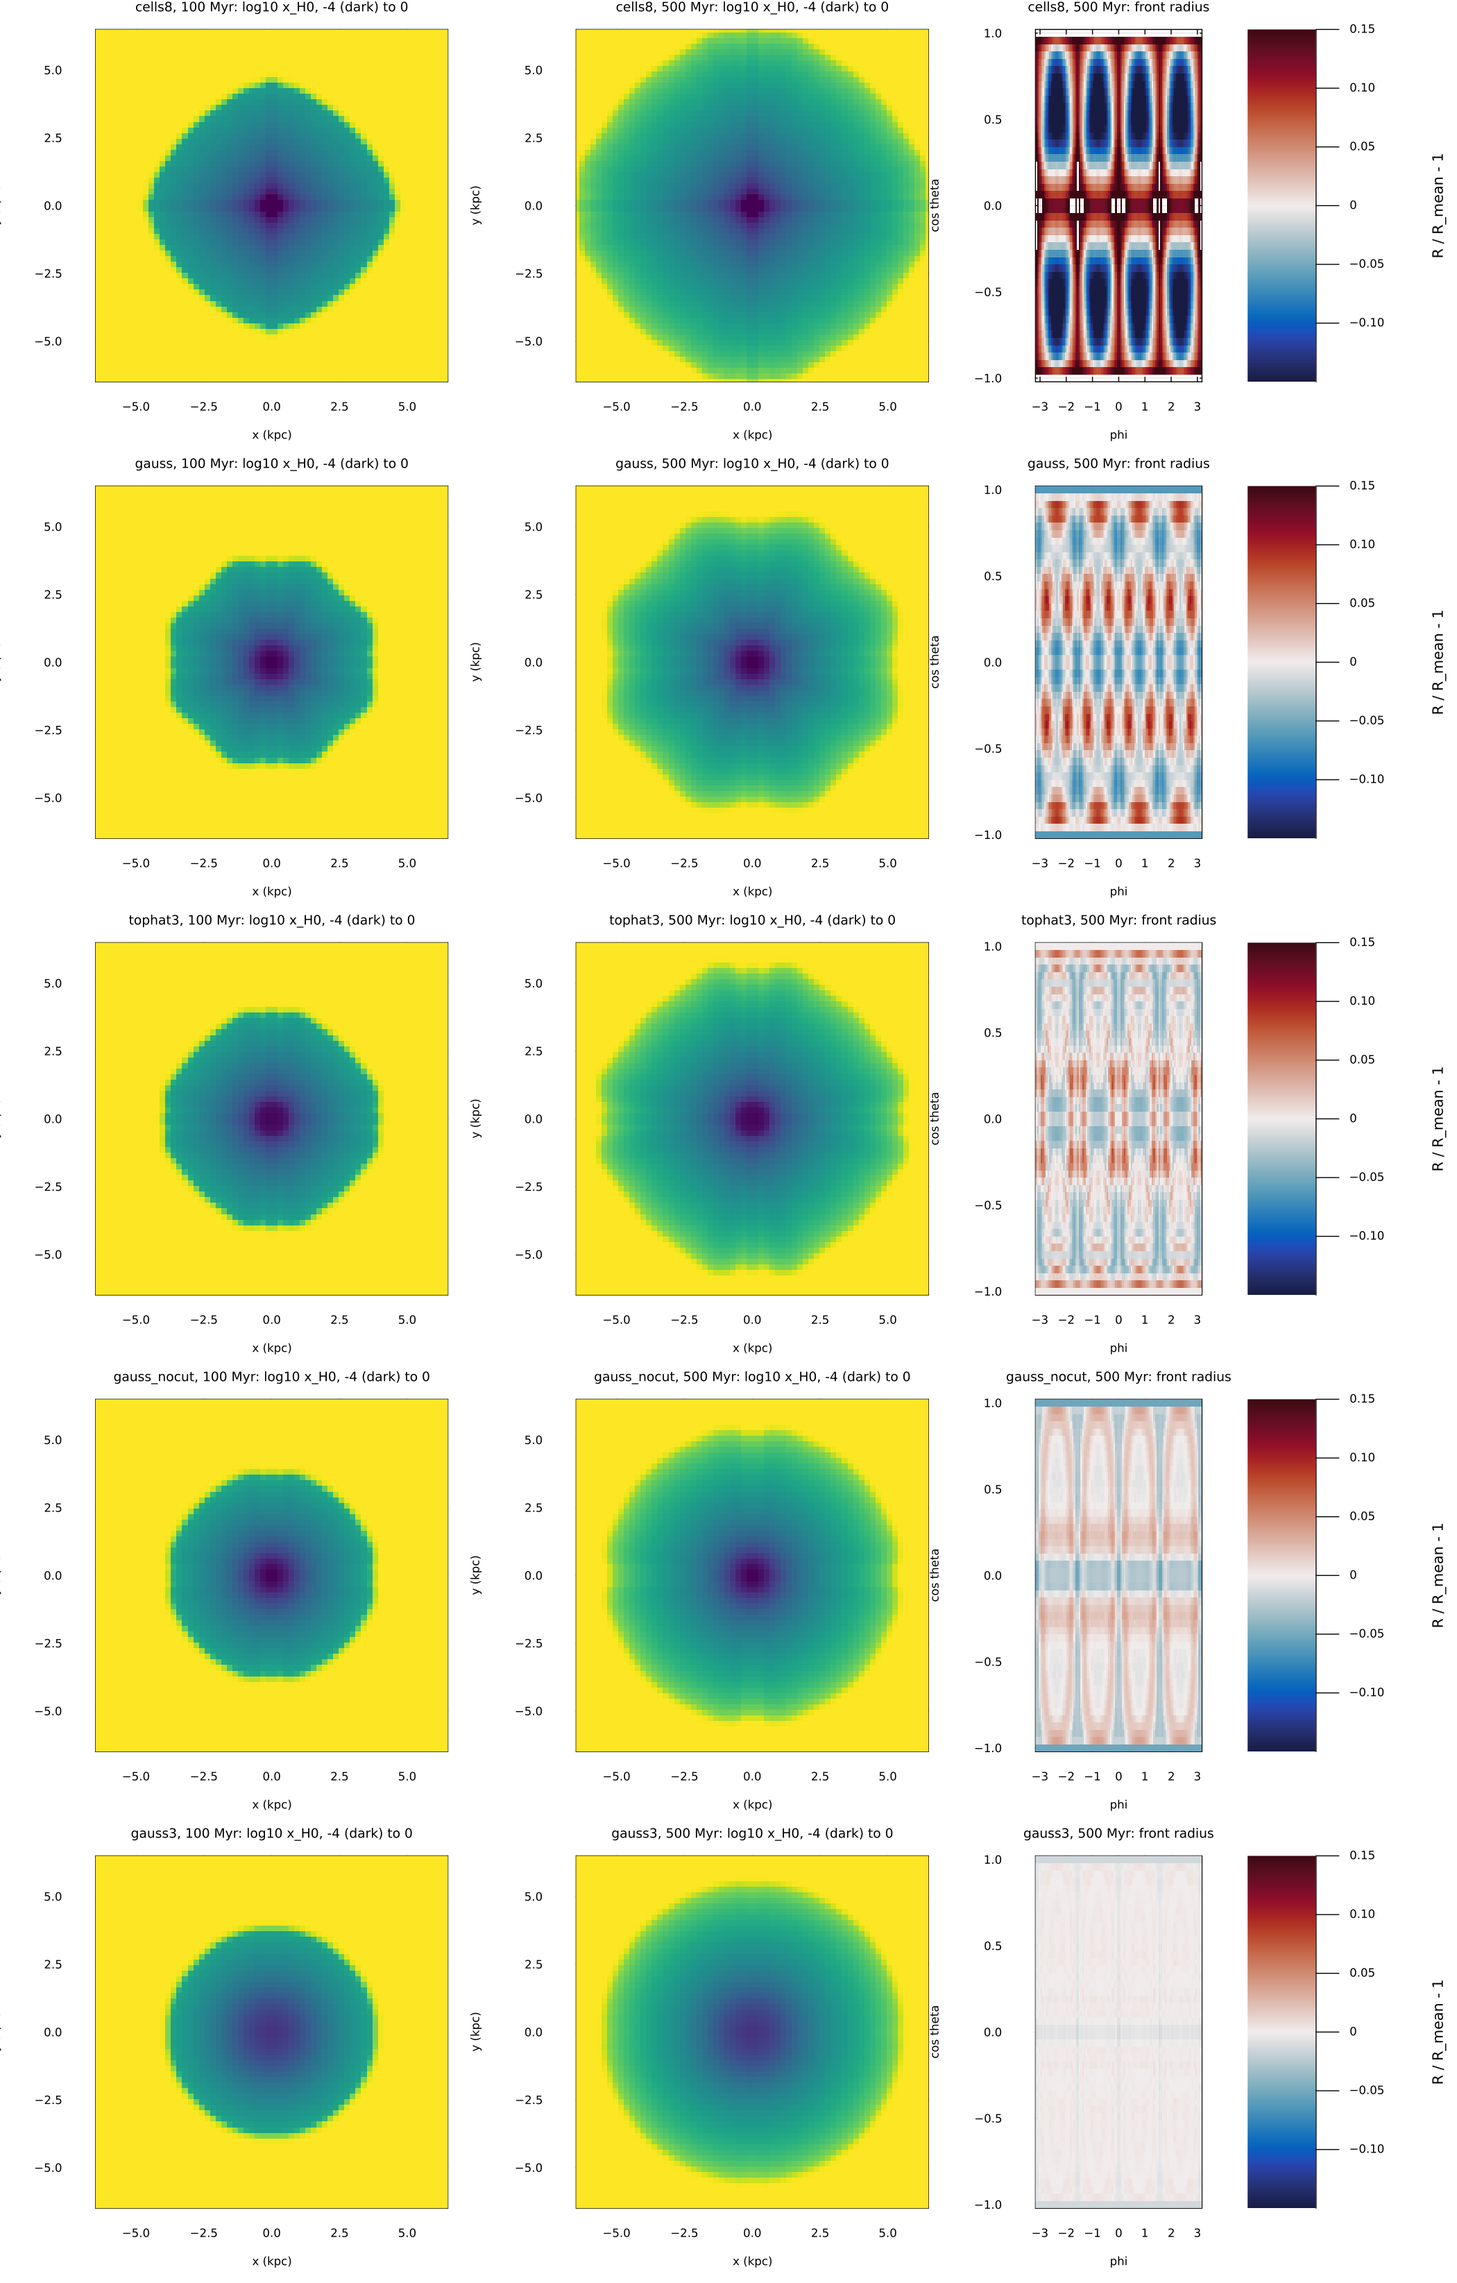
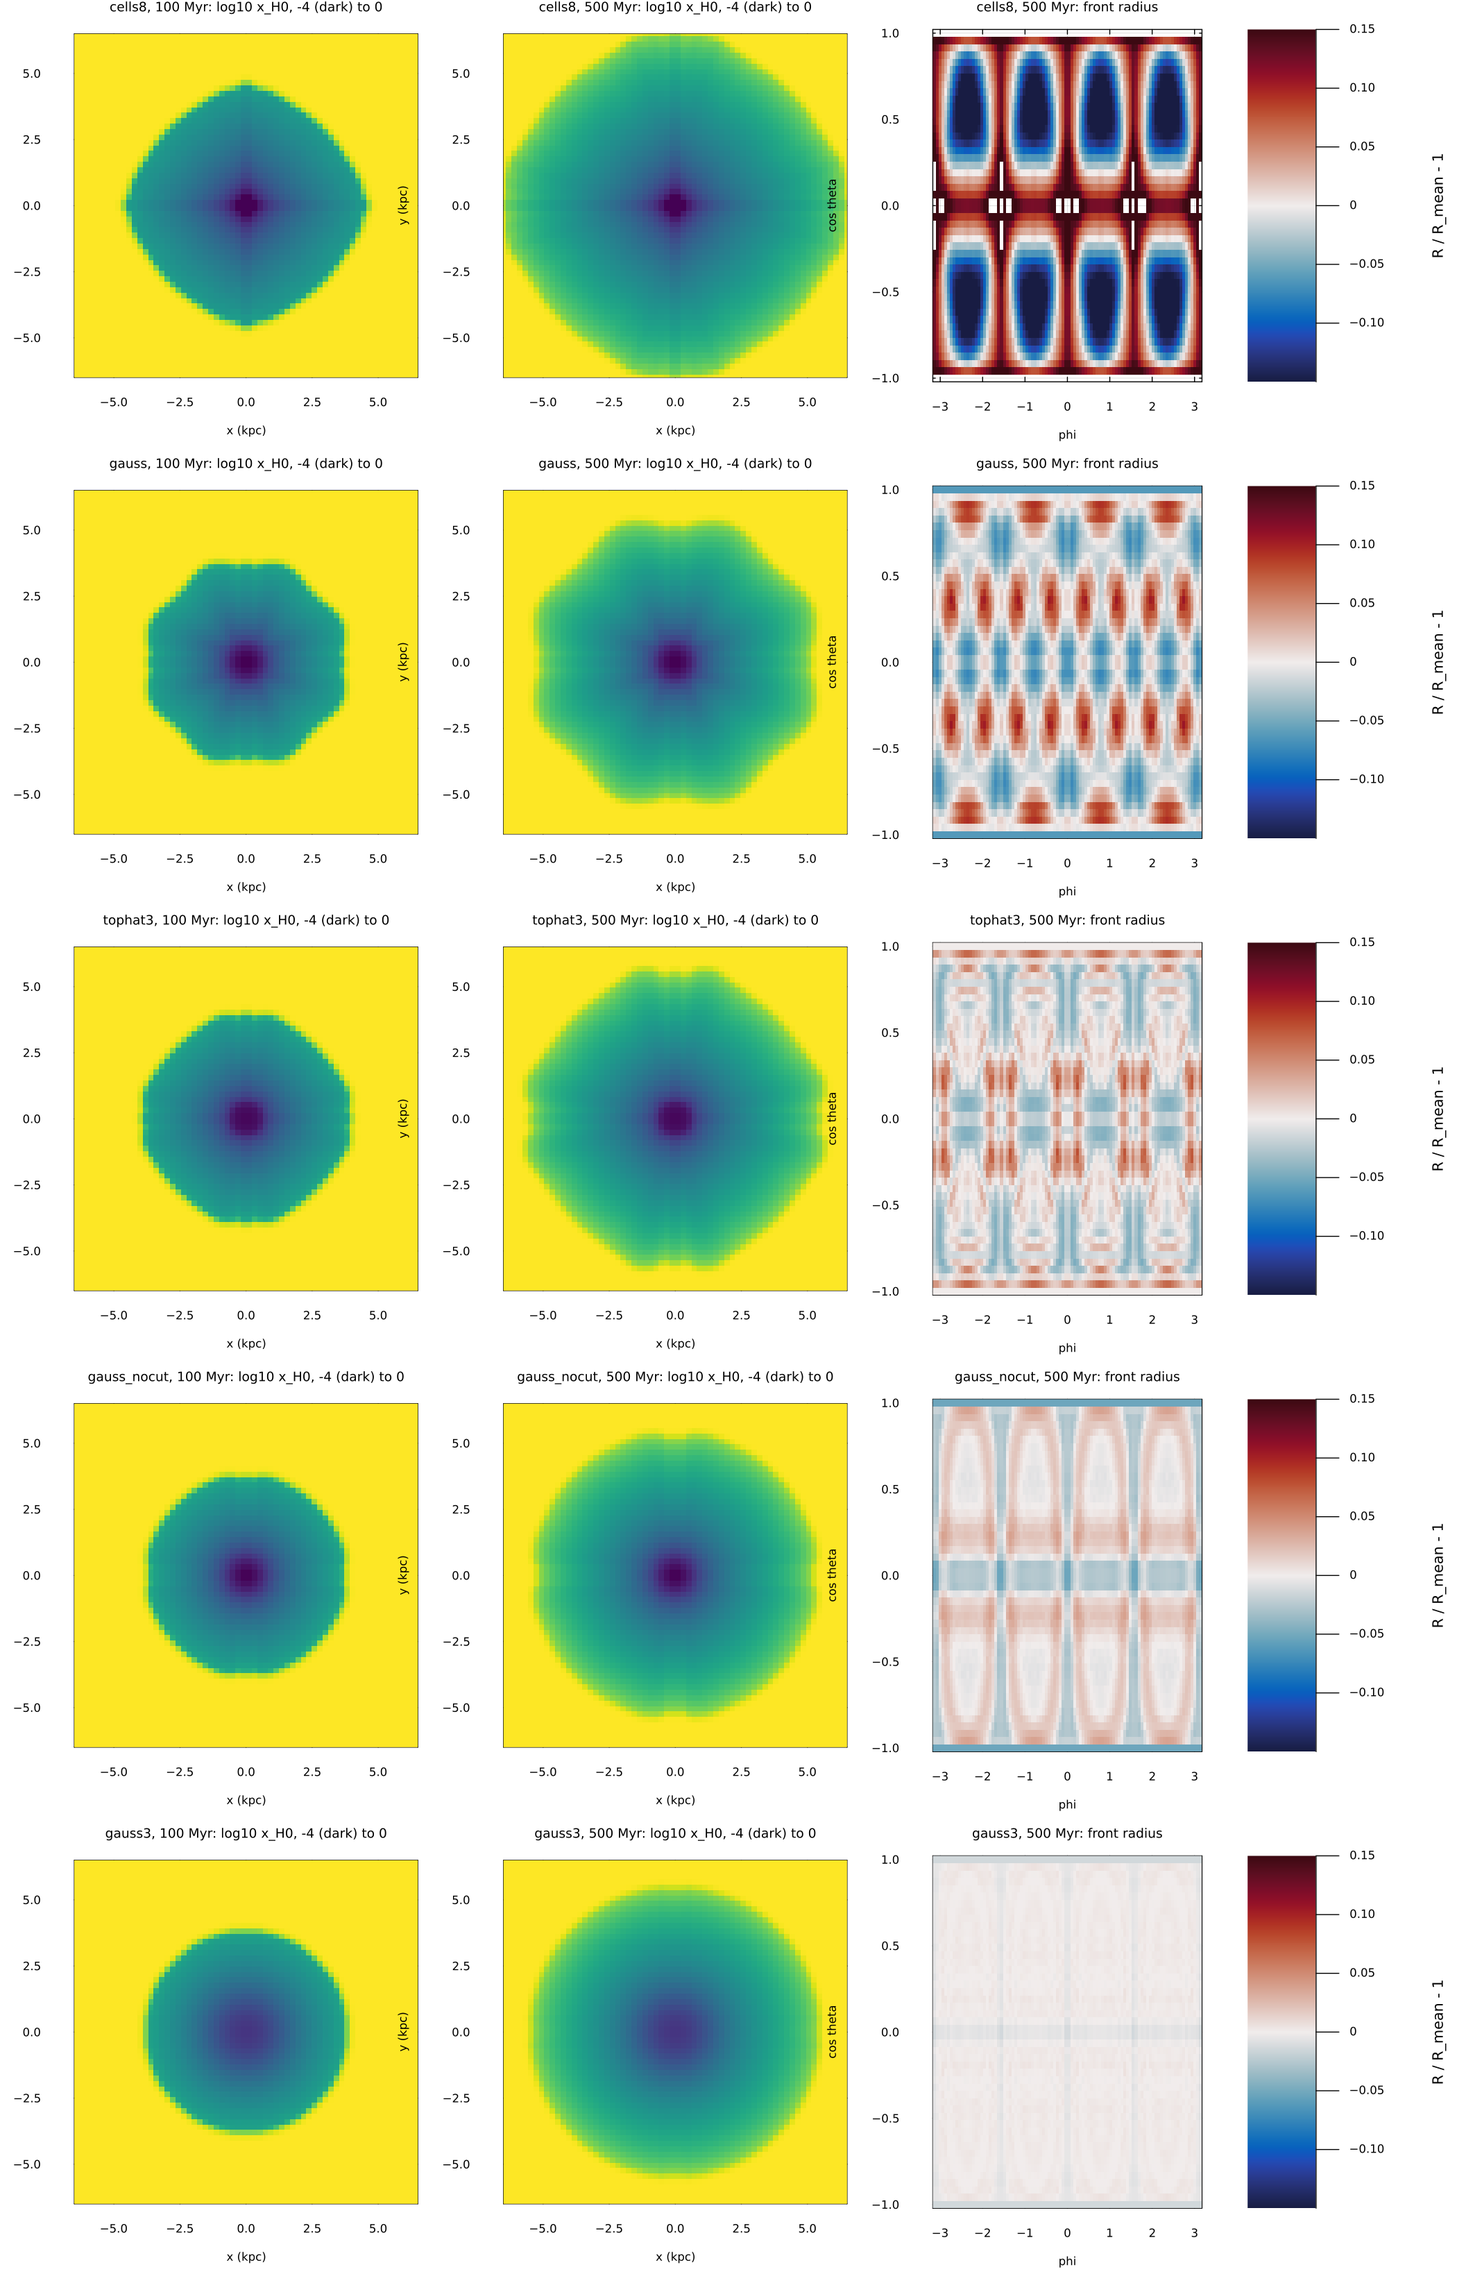
feat(stromgren): Wendland C2 kernel, compared with the Gaussian and top hat
* wendland_kernel(; support) is the Wendland C2 kernel, (1-q)^4 (4q+1)
  with q = r / (support dx), that Quokka deposits particle radiation with
  (support 2, WendlandC2<2>).
* sphericity.jl runs supports 2, 4, 6 and 12 dx; sphericity_plots.jl
  takes --fig=TAG to name a set of summary figures, and draws the
  front-radius column wider.
* At 64^3 and 500 Myr the spread std(R)/R is 10.3%, 1.9%, 2.0% and 0.30%.
  At the same standard deviation (0.258 times the support) Wendland and
  Gaussian kernels give the same spread, so the width matters and not the
  shape: Quokka's support-2 kernel makes the same octahedron as the 8
  cells around the source.
* README: the Wendland table and figure, what it means for Quokka, and
  that these runs have no hydrodynamics, so no D-type phase.

diff --git a/docs/photoionization-experiments/sphericity/README.md b/docs/photoionization-experiments/sphericity/README.md
@@ -2,7 +2,9 @@
 
 **Question.** Is the ionized region of the Stromgren-sphere test smooth and spherical, and does the kernel that deposits the source photons on the grid change its shape?
 
-**Answer.** It depends on the kernel. A compact or sharp-edged source makes an aspherical front with a cubic pattern, of $\pm 10\%$ to $\pm 20\%$ in radius. A Gaussian source of width $3\,\Delta x$ makes a front that is round to 0.3%. The default kernel, which is Quokka's (a Gaussian of width $1.5\,\Delta x$, cut at 2.5 widths), gives eight lobes with a spread of 4%.
+**Answer.** It depends on the kernel. A compact or sharp-edged source makes an aspherical front with a cubic pattern, of $\pm 10\%$ to $\pm 20\%$ in radius. A Gaussian source of width $3\,\Delta x$ makes a front that is round to 0.3%. The default kernel, which is Quokka's (a Gaussian of width $1.5\,\Delta x$, cut at 2.5 widths), gives eight lobes with a spread of 4%. The Wendland C2 kernel that Quokka deposits particle radiation with (support $2\,\Delta x$) gives an octahedron with a spread of 10%. At the same width, the Wendland and the Gaussian kernels give the same spread: the width matters, not the shape.
+
+**Scope.** These runs have hydrodynamics off, so they test only the radiation transport and the chemistry in the R-type phase. They have no D-type phase.
 
 ## Setup
 
@@ -18,6 +20,9 @@
 | `tophat3` | the volume fraction of the cell inside the sphere $r < 3\,\Delta x$ |
 | `gauss_nocut` | as `gauss`, cut at $5\sigma$ instead of $2.5\sigma$ |
 | `gauss3` | $\sigma = 3\,\Delta x$, cut at $4\sigma$ |
+| `wendland<h>` | Wendland C2, $(1-q)^4(4q+1)$ with $q = r/(h\,\Delta x)$, zero for $q > 1$; $h$ = 2 (Quokka's), 4, 6 and 12 |
+
+The Wendland C2 kernel has a standard deviation per axis of $0.258\,h\,\Delta x$: 0.52, 1.03, 1.55 and 3.1 $\Delta x$ for $h$ = 2, 4, 6 and 12. So `wendland6` has the width of `gauss`, and `wendland12` that of `gauss3`.
 
 **The measurement.** At 30, 100, 200 and 500 Myr, the script finds the radius $R$ where the ionization fraction $x_{\rm H^+}$ falls through 0.5, along 4000 directions spread evenly over the sphere. It interpolates $x_{\rm H^+}$ trilinearly between the cell centres. The **spread** is ${\rm std}(R)/\bar R$. A perfect sphere has a spread of 0.
 
@@ -33,9 +38,13 @@ julia --project=. -t auto docs/photoionization-experiments/sphericity.jl cells8 
 
 # the figures (needs Plots in the global environment)
 julia --project=. docs/photoionization-experiments/sphericity_plots.jl cells8 gauss tophat3 gauss_nocut gauss3
+
+# the Wendland kernels, and their figures against the Gaussians and the top hat
+julia --project=. -t auto docs/photoionization-experiments/sphericity.jl wendland2 wendland4 wendland6 wendland12
+julia --project=. docs/photoionization-experiments/sphericity_plots.jl wendland2 wendland4 wendland6 gauss tophat3 wendland12 gauss3 --fig=wendland
 ```
 
-Options of both scripts: `--n=64` (cells per side), `--solver=be` or `--solver=ros` (`BackwardEulerChem` or `RosenbrockChem`), `--outdir=DIR` (default: this folder). With no kernel names, the run script runs all of them.
+Options of both scripts: `--n=64` (cells per side), `--solver=be` or `--solver=ros` (`BackwardEulerChem` or `RosenbrockChem`), `--outdir=DIR` (default: this folder). The plot script also takes `--fig=TAG`, which names its two summary figures `sphericity_comparison_TAG_<solver>.png` and `sphericity_summary_TAG_<solver>.png`. With no kernel names, the run script runs all of them.
 
 The run script writes one table per kernel, `sphericity_<kernel>_<solver>.txt`, and the ionization fraction at each output time as raw `Float32` ($n^3$ values, $x$ fastest), `x_<kernel>_<solver>_<t>Myr.f32`. The raw files are not in git, because they are 1 MB each.
 
@@ -71,6 +80,28 @@ $r_I$ is the volume-equivalent radius of the ionized gas (`ionized_radius`). For
 
 The single-kernel figures `sphericity_<kernel>_be.png` show the same panels with the front radius at 100 Myr too, each on its own colour scale.
 
+### The Wendland C2 kernel against the Gaussian and the top hat
+
+| Kernel | $\sigma/\Delta x$ | Spread, 100 Myr | Spread, 500 Myr | $R_{\min}$ (kpc) | $R_{\max}$ (kpc) | $r_I$, 30 Myr (kpc) |
+|:---|---:|---:|---:|---:|---:|---:|
+| `wendland2` (Quokka's) | 0.52 | 9.17% | 10.26% | 4.48 | $\geq 6.47$ | 2.082 |
+| `cells8` | — | 9.64% | 10.58% | 4.43 | $\geq 6.47$ | 2.079 |
+| `wendland4` | 1.03 | 1.59% | 1.94% | 5.27 | 5.84 | 2.114 |
+| `wendland6` | 1.55 | 1.38% | 1.95% | 5.22 | 5.78 | 2.127 |
+| `gauss_nocut` | 1.5 | 1.36% | 1.86% | 5.23 | 5.75 | 2.128 |
+| `gauss` (cut) | 1.5 | 3.06% | 4.11% | 5.11 | 6.12 | 2.117 |
+| `tophat3` | 1.34 | 1.86% | 2.63% | 5.28 | 6.03 | 2.111 |
+| `wendland12` | 3.1 | 0.40% | 0.30% | 5.47 | 5.58 | 2.259 |
+| `gauss3` | 3.0 | 0.39% | 0.32% | 5.46 | 5.57 | 2.256 |
+
+The $\sigma$ of `tophat3` is that of a uniform sphere of radius $3\,\Delta x$, $3/\sqrt{5} = 1.34$.
+
+![Wendland, Gaussian and top hat](sphericity_comparison_wendland_be.png)
+
+*As the first figure, for the Wendland kernels, the default Gaussian, the top hat and `gauss3`.*
+
+![Spread and anisotropy, Wendland set](sphericity_summary_wendland_be.png)
+
 **Solver check.** With `RosenbrockChem`, `gauss` gives a spread of 3.05% at 100 Myr and 4.18% at 500 Myr, against 3.06% and 4.11% with `BackwardEulerChem`, and `gauss3` gives 0.42% and 0.33%, against 0.39% and 0.32%. The chemistry solver does not change the shape. A Rosenbrock run takes about 16 minutes on 6 threads, against 80 s for backward Euler.
 
 ## What this means
@@ -79,12 +110,18 @@ The single-kernel figures `sphericity_<kernel>_be.png` show the same panels with
 2. A source in a few cells emits more photons along the grid axes. `cells8` makes an octahedron: the front is up to 20% ahead along the axes and behind along the body diagonals. My reading, not tested: the M1 transport keeps the angular pattern that the radiation gets near the source and carries it out to the front, so the pattern does not smooth out with time.
 3. A sharp edge in the kernel makes lobes. The cut of `gauss` at $2.5\sigma = 3.75\,\Delta x$ and the edge of `tophat3` both leave lobes. Removing the cut (`gauss_nocut`) halves the spread.
 4. A smooth source over several cells gives a round front. `gauss3` is round to 0.3%, with dips of about 1% in the coordinate planes.
-5. The cost of a wide source is the early radius. The `gauss3` source reaches 2.5 kpc, and at 30 Myr its $r_I$ is 8.9% above the reference, against 2.2% for `gauss`. At 100 Myr the difference is 0.3%, and at 500 Myr it is gone.
+5. The width of the kernel matters, not its shape. At the same $\sigma$, Wendland and Gaussian kernels give the same spread: `wendland2` and `cells8` 10.3% and 10.6%, `wendland6` and `gauss_nocut` 1.95% and 1.86%, `wendland12` and `gauss3` 0.30% and 0.32%. The smoothness of the Wendland kernel does not help beyond its width. A sharp cut does hurt: `gauss`, at the width of `wendland6`, has twice its spread.
+6. The cost of a wide source is the early radius. The `gauss3` source reaches 2.5 kpc, and at 30 Myr its $r_I$ is 8.9% above the reference, against 2.2% for `gauss`. At 100 Myr the difference is 0.3%, and at 500 Myr it is gone.
 
-**For Quokka.** The default kernel here is the one of Quokka's `testStromgrenSphere.cpp`, and Honghu transliterates Quokka's M1 transport. So a Quokka run with that source is likely to show the same eight lobes (not verified in Quokka). A first test is a wider Gaussian without a sharp cut.
+**For Quokka.** Honghu transliterates Quokka's M1 transport, so I expect the same patterns there (not verified in Quokka):
+
+- The Gaussian of `testStromgrenSphere.cpp` is the default kernel here: eight lobes, a spread of 4%.
+- The Wendland C2 kernel with $N = 2$, which Quokka uses to deposit particle radiation (`WendlandC2<2>` in `src/particles/particle_deposition.hpp`) and in `testDTypeFront3D.cpp`, is `wendland2` here: an octahedron, a spread of 10%, with the front about 20% ahead along the axes.
+- A first test in Quokka: a larger support, for example $N = 6$ or more. The stencil of `WendlandC2<N>` needs $N + 1$ ghost cells and allows $N \leq 7$, so $\sigma = 3\,\Delta x$ ($N = 12$) is not possible there; $N = 7$ gives $\sigma = 1.8\,\Delta x$.
 
 ## Not yet known
 
 - Whether the transport alone (no chemistry) makes the same pattern from the same sources. A test of the optically thin field $E(\mathbf{r})$ around each source would separate the two.
 - How the spread scales with resolution, and whether the width that a round front needs is a number of cells or a physical size.
 - The spread for widths between $1.5\,\Delta x$ and $3\,\Delta x$. The kernel `gauss2` ($\sigma = 2\,\Delta x$, cut at $4\sigma$) is in the script but was not run.
+- The D-type phase. These runs have no hydrodynamics. Whether the asphericity of the R-type front grows, stays or smooths out when the HII region expands is not tested.

diff --git a/CHANGELOG.md b/CHANGELOG.md
@@ -6,7 +6,7 @@ All notable changes to Honghu.jl are recorded here. The format follows [Keep a C
 
 ### Added
 
-- `stromgren_iliev(; kernel)` sets how the source photons are deposited on the grid: `kernel(x, y, z, dx)` is the relative weight of each cell, normalised over the grid as before. `gaussian_kernel(; width, cut)` makes the default, Quokka's Gaussian of width $1.5\,\Delta x$ cut at 2.5 widths, so the default result is unchanged. `docs/photoionization-experiments/sphericity/` measures the shape of the ionization front for five kernels and shows that the kernel sets it: a spread in radius of 10.6% for the 8 cells around the source, 4.1% for the default and 0.3% for a Gaussian of width $3\,\Delta x$, at $64^3$ and 500 Myr.
+- `stromgren_iliev(; kernel)` sets how the source photons are deposited on the grid: `kernel(x, y, z, dx)` is the relative weight of each cell, normalised over the grid as before. `gaussian_kernel(; width, cut)` makes the default, Quokka's Gaussian of width $1.5\,\Delta x$ cut at 2.5 widths, so the default result is unchanged, and `wendland_kernel(; support)` the Wendland C2 kernel that Quokka deposits particle radiation with. `docs/photoionization-experiments/sphericity/` measures the shape of the ionization front for five kernels and shows that the kernel sets it: a spread in radius of 10.6% for the 8 cells around the source, 4.1% for the default and 0.3% for a Gaussian of width $3\,\Delta x$, at $64^3$ and 500 Myr.
 - Faster on a many-core node. On a 32-core node the 3D Sedov blast at $128^3$ takes 82 ms a step instead of 136 ms (pinned), and 93 ms instead of 141 ms (unpinned); on one thread it takes 1.20 s instead of 1.38 s. The answers are bit-for-bit the same. The hydrodynamic sweeps run box by box, with the interface states and fluxes of a box in a per-task scratch array that stays in cache (`src/tiling.jl`), instead of three passes over whole-grid arrays. The last sweep of a right-hand side forms the Runge-Kutta stage straight from the fluxes, the first overwrites `dU` instead of zeroing it first, and the whole-array copies are threaded. `Simulation(tile = :auto)` controls the tiling: the default tiles with `DEFAULT_TILE = (32, 1, 1)` from `TILE_MIN_THREADS = 8` threads on, and not below, where tiling costs 4-7%, nor where a sweep would have fewer boxes than threads (2D grids below about $1024^2$ at 32 threads), nor on Apple Silicon, where it was slower at every thread count (8-23% on an M5 Max at $128^3$, all 18 cores included); a tuple forces a tile, and `nothing` forces the untiled sweep. `flux_divergence!` takes optional `overwrite` and `update` arguments, and `hydro_rhs!` an `update` keyword. `test/benchmarks_parallel.jl` measures the thread scaling, and `docs/parallel-findings.md` records every change with its measured effect, including the ones that bought nothing (static scheduling, threaded ghost filling) and thread pinning (10% at 32 threads with `JULIA_EXCLUSIVE=1`, but slower when only some of the cores are used).
 
 - The hydrodynamic sweep runs on a GPU. Its three kernels are functions of one cell or face (`_reconstruct_cell!`, `_hydro_flux_cell!`, `_divergence_cell!`), run through one launch point, `launch!(backend, box, f, args...)`, AMReX's `ParallelFor`. `CPUThreads` (the default) and `CPUSerial` are built in; `KABackend(backend)` launches them as KernelAbstractions kernels, through the extension `HonghuKernelAbstractionsExt` that loads with KernelAbstractions (a weak dependency). One driver, `hydro_sweep!`, replaces `hydro_sweep_tiled!` and the untiled branch: it runs the same launches tiled on the CPU, or as one whole-grid box on any backend, which is how a GPU runs it. `HydroWorkspace` carries the backend (`hw.backend`, `CPUThreads()` by default). A `Simulation` itself stays on the CPU, its arrays being `Array`s: the GPU path is `hydro_sweep!` called on device arrays, as `test/gpu/gpu_sweep.jl` does, and the rest of a step (ghost cells, floors, conversion, time step, radiation) is not ported yet. On the CPU the answers and the timings are unchanged. `test/test_portable.jl` runs whole simulations through KernelAbstractions' CPU backend and finds them bit-identical; `test/gpu/gpu_sweep.jl` runs the sweep on an NVIDIA GPU, where it agrees with the CPU to round-off ($3\times10^{-16}$ of each variable's scale on an RTX PRO 6000) and takes 2.0-2.3 ms a sweep at $128^3$ against 4.5-5.2 ms tiled on 32 cores. The test suite now needs `test/ka` instantiated once (`julia --project=test/ka -e 'using Pkg; Pkg.instantiate()'`).
